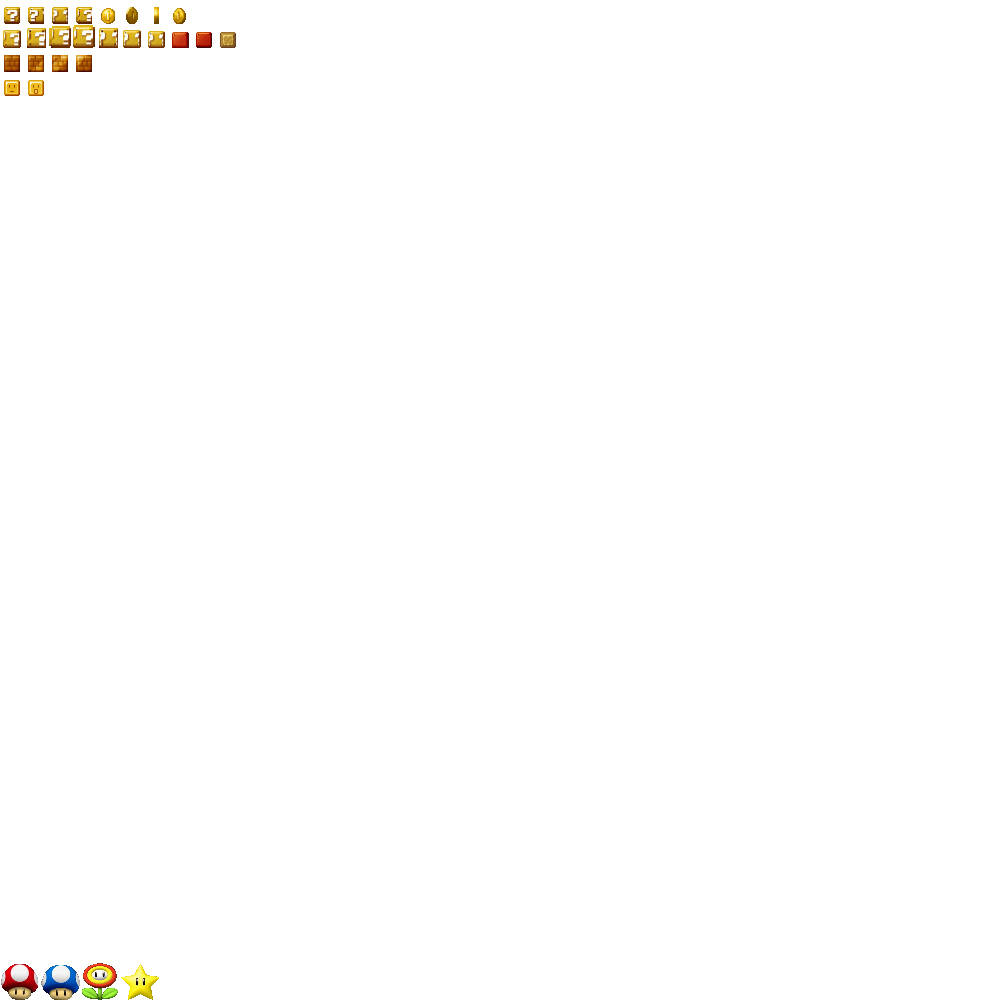
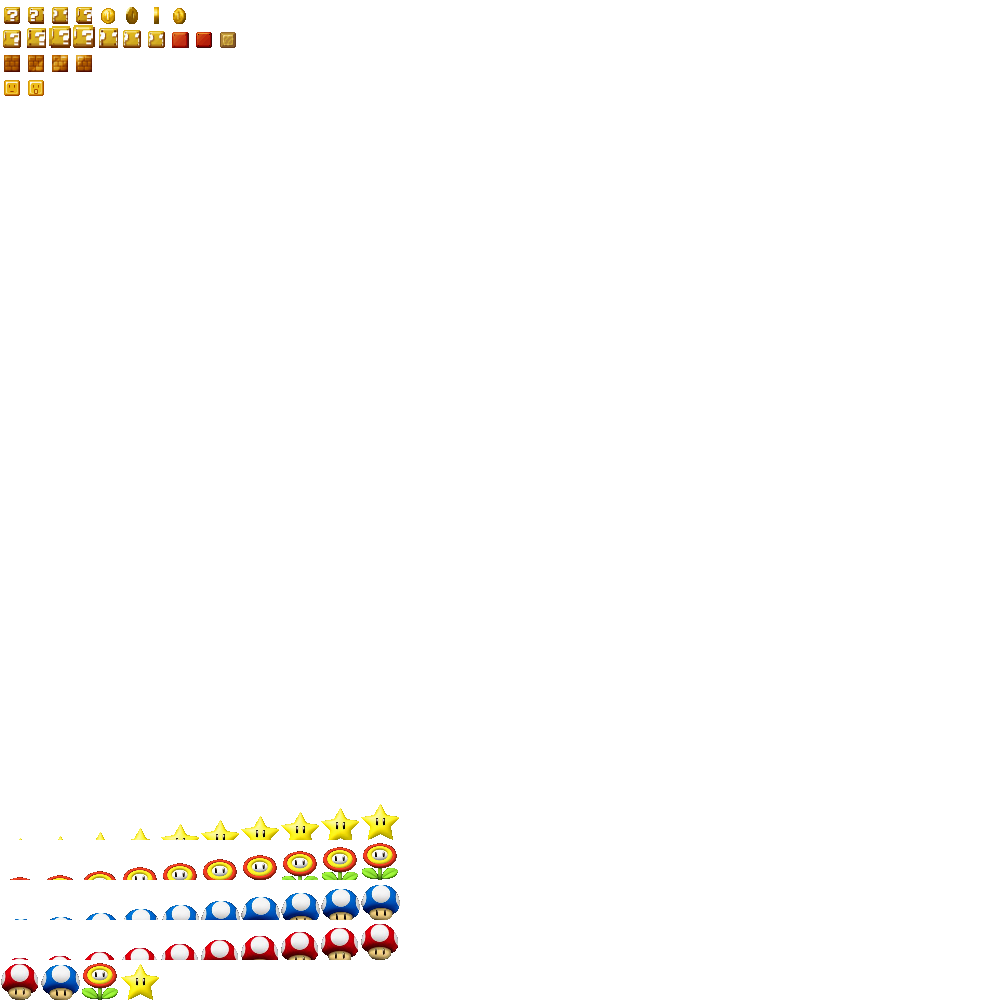
q블럭 아이템 생성

Changed region(s): [[0.093, 0.806, 0.403, 0.961]]

diff --git a/newSuperMario/object_class.py b/newSuperMario/object_class.py
@@ -1,5 +1,10 @@
 from pico2d import *
 import game_framework
+from object_variable import *
+
+TIME_PER_ACTION = 0.7
+ACTION_PER_TIME = 1.0 / TIME_PER_ACTION
+FRAMES_PER_ACTION = 15
 
 class object:
     image = None
@@ -104,7 +109,8 @@ class object_item:
         self.crey = y
         self.ability = ability
         self.dir = 1
-        if self.ability == 303:
+        self.frame = 0
+        if self.ability == 303 or self.ability == 1303:
             self.status = 1
             self.ga = 0.1
             self.g = 6.0
@@ -116,25 +122,35 @@ class object_item:
         if object_item.image == None:
             object_item.image = load_image('object.png')
     def update(self):
-        if self.ability == 303:
-            if self.status == 1:  # 상승
-                self.y = -(self.ga / 2) * (self.t ** 2) + self.g * self.t + self.py
-                self.t += 0.5
-                if (self.ga / 2) * (self.t ** 2) > self.g * self.t:
-                    self.status = -1
-            elif self.status == -1:  # 하강
-                self.y = -(self.ga / 2) * (self.t ** 2) + self.g * self.t + self.py
-                self.t += 0.5
-                if self.y < self.py:
-                    self.y = self.py
-                    self.status = 1
-                    self.t = 0
+        if self.ability >= 1000: # 생성
+            if self.ability >= 1300:
+                self.frame = (self.frame + FRAMES_PER_ACTION * ACTION_PER_TIME * game_framework.frame_time)
+                if self.frame >= 10:
+                    self.frame = 0
+                    self.ability = self.ability - 1000
 
-        if self.ability != 302:
-            self.move2x += self.dir * 0.9
+
+        else:
+            if self.ability == 303:
+                if self.status == 1:  # 상승
+                    self.y = -(self.ga / 2) * (self.t ** 2) + self.g * self.t + self.py
+                    self.t += 0.5
+                    if (self.ga / 2) * (self.t ** 2) > self.g * self.t:
+                        self.status = -1
+                elif self.status == -1:  # 하강
+                    self.y = -(self.ga / 2) * (self.t ** 2) + self.g * self.t + self.py
+                    self.t += 0.5
+                    if self.y < self.py:
+                        self.y = self.py
+                        self.status = 1
+                        self.t = 0
+
+            if self.ability != 302:
+                self.move2x += self.dir * 0.9
 
         self.x = self.crex + self.movex + self.move2x
         self.y = self.crey + self.movey
+
 
     def draw(self):
         if self.ability == 300:  # 일반 버섯
@@ -145,6 +161,14 @@ class object_item:
             self.image.clip_draw(40 * 2, 0, 40, 40, self.x, self.y, self.size[0], self.size[1])
         elif self.ability == 303:  # 별
             self.image.clip_draw(40 * 3, 0, 40, 40, self.x, self.y, self.size[0], self.size[1])
+        elif self.ability == 1300:  # 생성 일반 버섯
+            self.image.clip_draw(40 * int(self.frame), 40, 40, 40, self.x, self.y, self.size[0], self.size[1])
+        elif self.ability == 1301:
+            self.image.clip_draw(40 * int(self.frame), 40 * 2, 40, 40, self.x, self.y, self.size[0], self.size[1])
+        elif self.ability == 1302:
+            self.image.clip_draw(40 * int(self.frame), 40 * 3, 40, 40, self.x, self.y, self.size[0], self.size[1])
+        elif self.ability == 1303:
+            self.image.clip_draw(40 * int(self.frame), 40 * 4, 40, 40, self.x, self.y, self.size[0], self.size[1])
 
         draw_rectangle(*self.get_bb())
 

diff --git a/newSuperMario/Main_state.py b/newSuperMario/Main_state.py
@@ -4,28 +4,10 @@ import game_world
 
 from Mario_class import *
 from Map import map
+from object_variable import *
 import object_class
 
 name = "MainState"
-
-mario = None
-map1_1 = None
-
-# ground
-grounds = []
-# block
-coin = []
-Qblock = []
-brick = []
-skbrick = []
-Steelblock = []
-# item
-item = []
-# monster
-monsters = []
-
-SET_BLOCK = None
-SET_CHECK = 0
 
 def enter():
     global map1_1
@@ -82,9 +64,19 @@ def update():
         if contact_aAndb(mario, block) == 1: # 아래서 위로
             mario.JUMP = False
             if block.ability >= 100 and block.ability <= 109:
+                if block.ability >= 101:
+                    t = object_class.object_item(block.crex, block.crey + 25, 1299 + (block.ability % 100))
+                    t.movex = block.movex
+                    t.movey = block.movey
+
+                    t.frame = 0
+                    item.append(t)
+                    game_world.add_object(t, 1)
+
                 block.ability = block.ability + 10
                 block.frame = 0
                 block.fs = 0
+
         elif contact_aAndb(mario, block) == 2:  # 위서 아래로
             if mario.py < block.y + block.size[1] + 3:
                 mario.py = block.y + block.size[1] + 3
@@ -227,9 +219,14 @@ def mapcreate(stage):
         # Qblock.append(object(48 * 8, ground1 + 32 * 1, 100))
         Qblock.append(object_class.object(48 * 8, ground1, 100))
 
-        Qblock.append(object_class.object(48 * 12, ground1 + 60 * 2, 100))
-        Qblock.append(object_class.object(48 * 15, ground1 + 60 * 2, 100))
-        Qblock.append(object_class.object(48 * 15 + 32, ground1 + 60 * 2, 100))
+        Qblock.append(object_class.object(48 * 3, ground1 + 60 * 2, 101))
+        Qblock.append(object_class.object(48 * 4, ground1 + 60 * 2, 102))
+        Qblock.append(object_class.object(48 * 5, ground1 + 60 * 2, 103))
+        Qblock.append(object_class.object(48 * 6, ground1 + 60 * 2, 104))
+
+        Qblock.append(object_class.object(48 * 12, ground1 + 60 * 2, 101))
+        Qblock.append(object_class.object(48 * 15, ground1 + 60 * 2, 101))
+        Qblock.append(object_class.object(48 * 15 + 32, ground1 + 60 * 2, 101))
 
         coin.append(object_class.object(48 * 22, ground1 + 60 * 1, 0))
         coin.append(object_class.object(48 * 22 + 32, ground1 + 60 * 1 + 32, 0))

diff --git a/newSuperMario/object_variable.py b/newSuperMario/object_variable.py
@@ -1,0 +1,19 @@
+mario = None
+map1_1 = None
+
+# ground
+grounds = []
+# block
+coin = []
+Qblock = []
+brick = []
+skbrick = []
+Steelblock = []
+# item
+item = []
+# monster
+monsters = []
+
+SET_BLOCK = None
+SET_CHECK = 0
+

diff --git a/newSuperMario/SuperMario.py b/newSuperMario/SuperMario.py
@@ -5,5 +5,5 @@ import Start_state
 import Main_state
 
 pico2d.open_canvas(1024, 600)
-game_framework.run(Start_state)
+game_framework.run(Main_state)
 pico2d.close_canvas()
